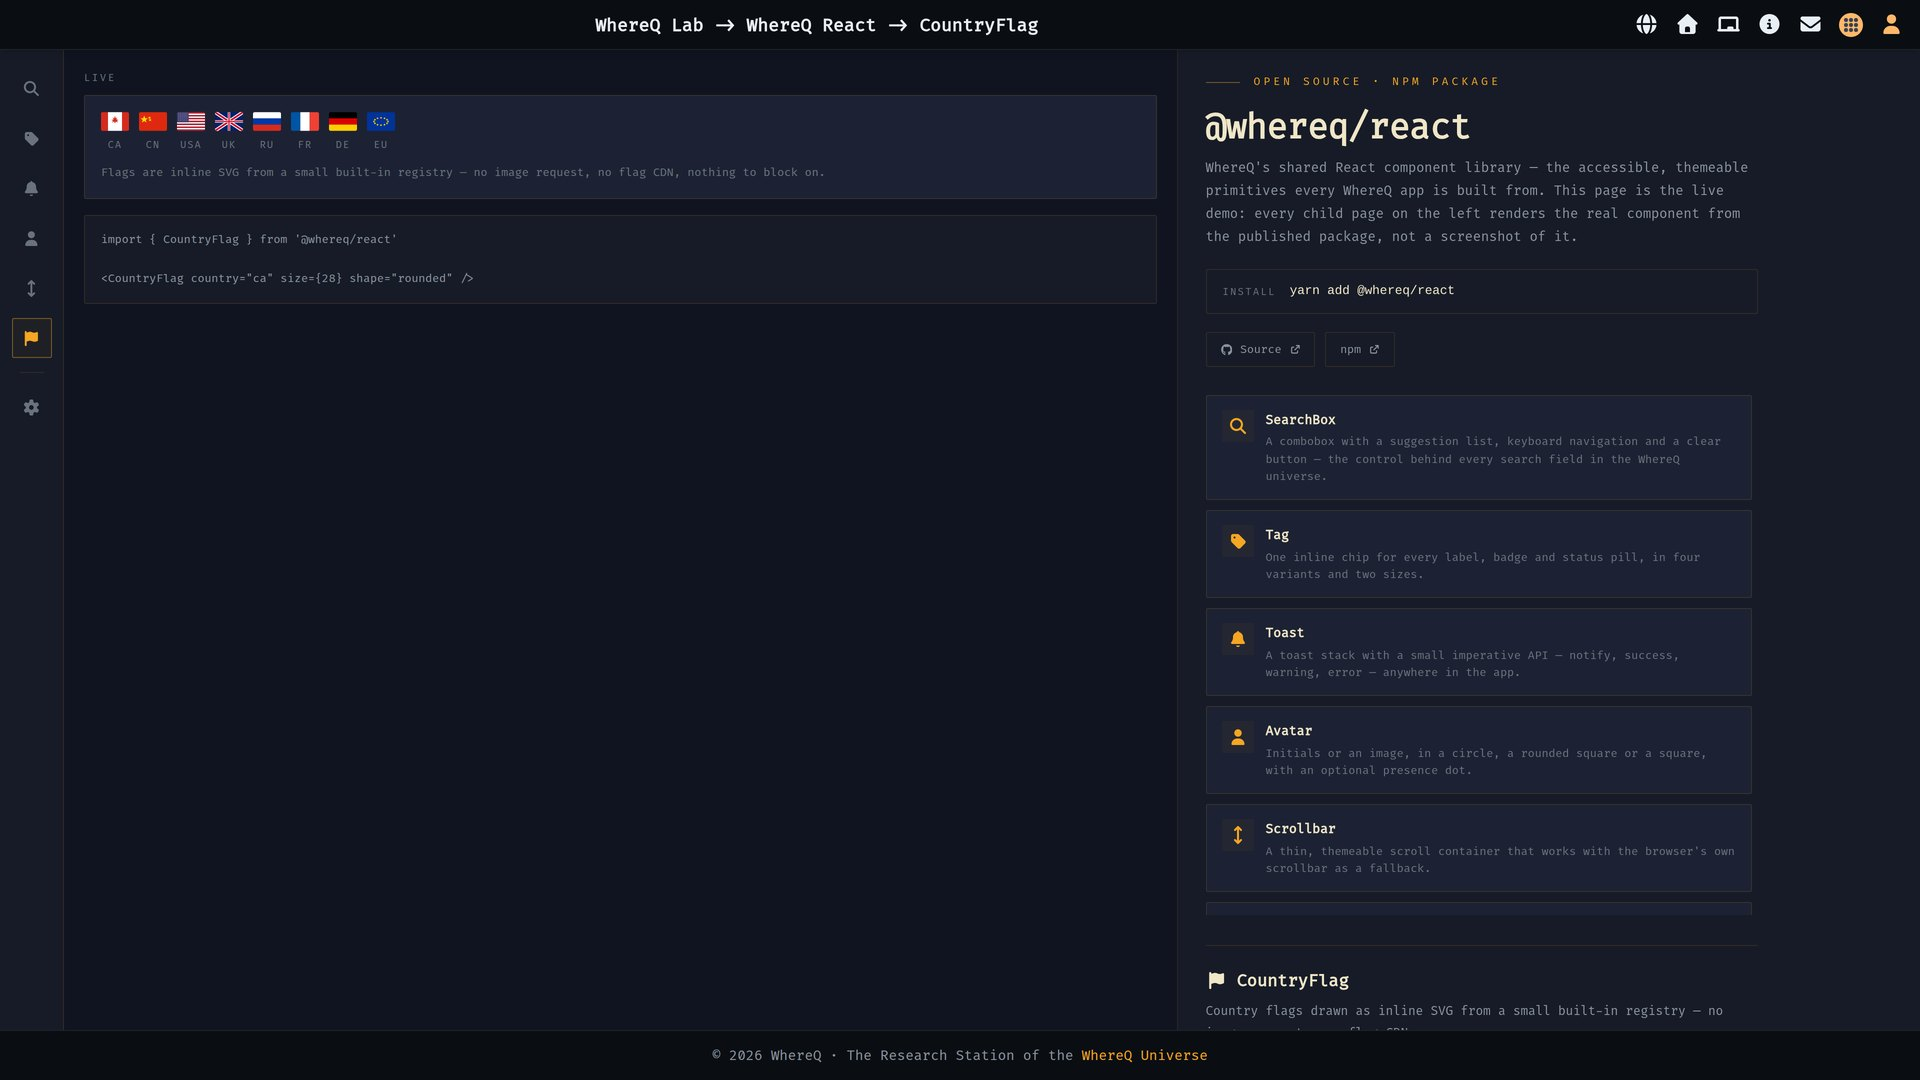
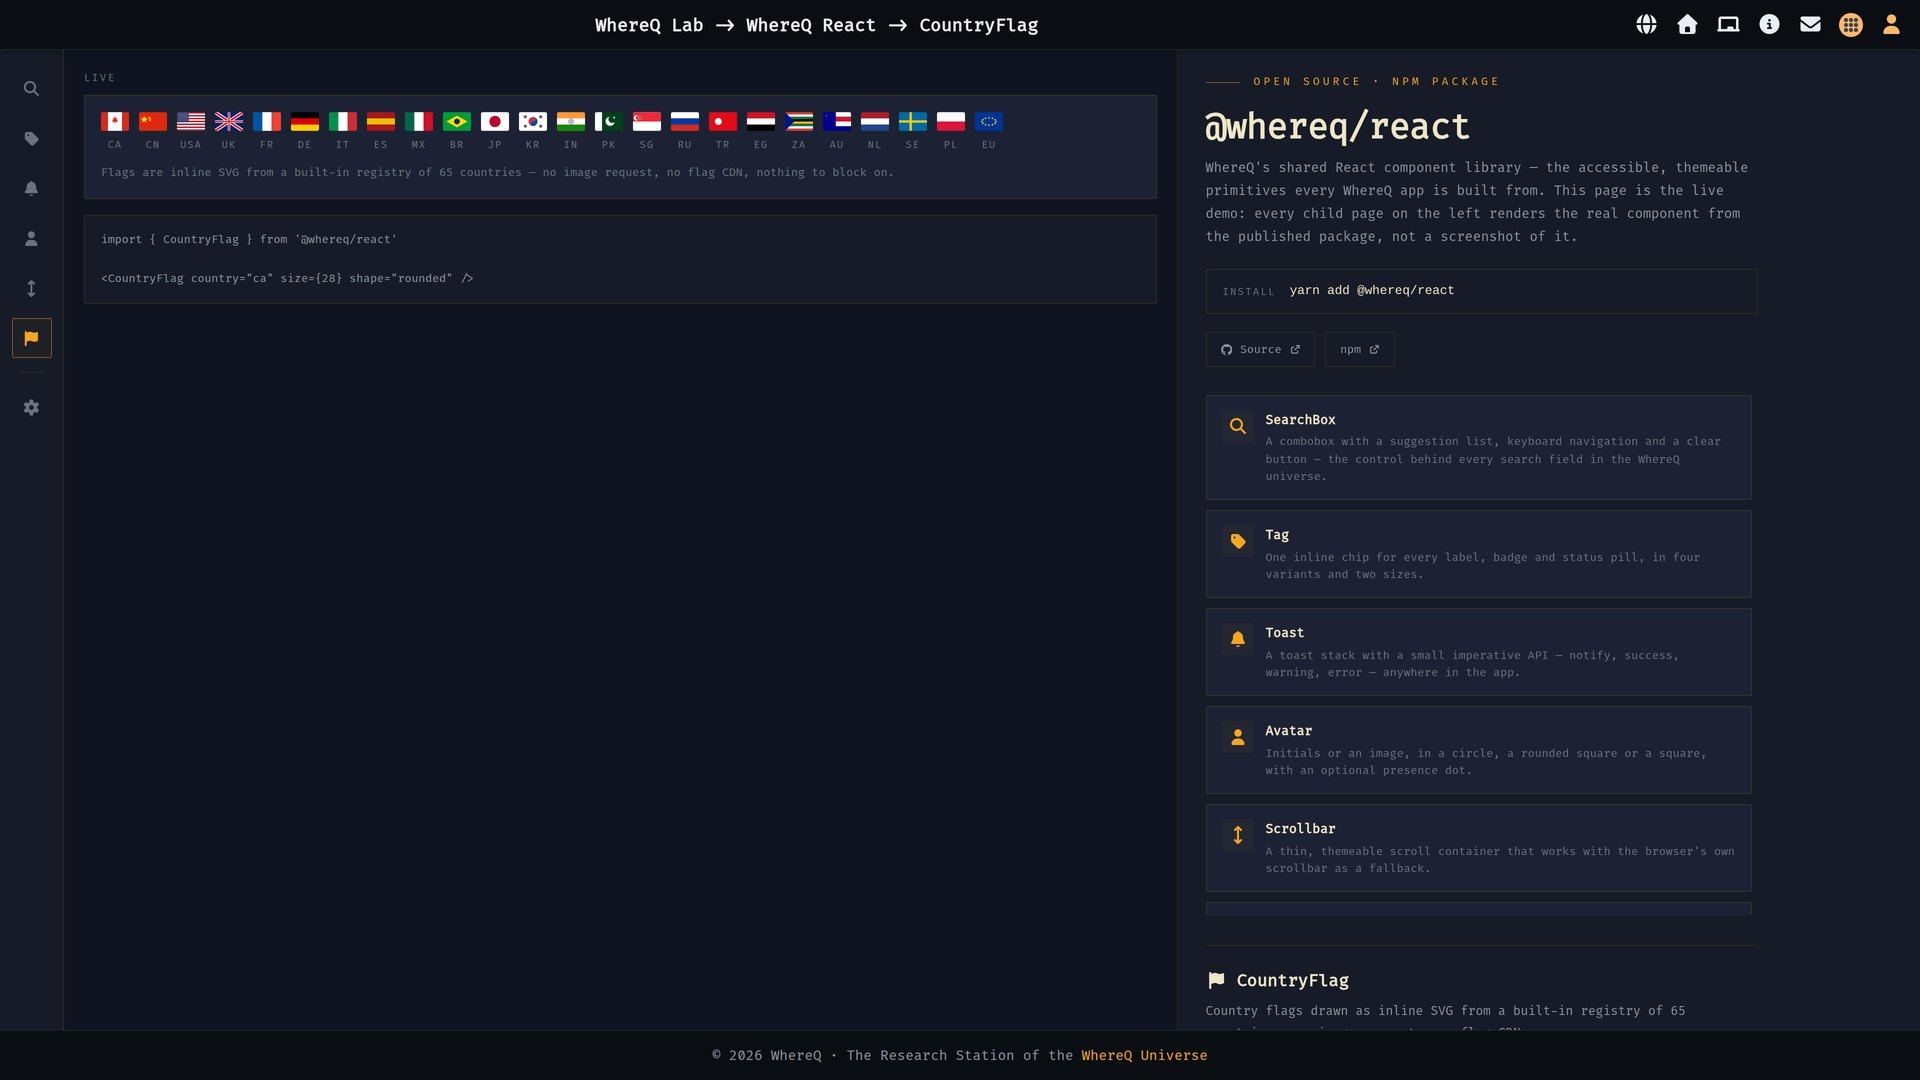
feat(react): the CountryFlag demo row counts its twenty-four countries
The @whereq/react registry behind the demo grew from forty-five countries
to sixty-five, and the demo's flag row grew from eight to twenty-four:
Japan is back, with South Korea, India, Pakistan, Singapore, Mexico,
Spain and Italy alongside it.

Both posts now say "a built-in registry of 65 countries" and list all
twenty-four codes, and the screenshot shows the new row.

The release ledger gains an entry for whereq.ca v1.13.0 and v1.13.1,
each carrying the release note's own headline.

Changed region(s): [[0.125, 0.0917, 0.5312, 0.1222], [0.8438, 0.9167, 0.875, 0.9472], [0.3125, 0.1528, 0.3438, 0.1833]]

diff --git a/src/data/news-release-ledger.ts b/src/data/news-release-ledger.ts
@@ -969,13 +969,25 @@ export const RELEASE_LEDGER: Record<string, LedgerEntry[]> = {
   ],
   'whereq-ca': [
       {
+        version: 'v1.13.1',
+        date: '2026-11-22',
+        title:
+          'The CountryFlag description now counts the countries instead of calling the registry small.',
+        url: doc('whereq.ca', 'docs/releases/v1.13.1-flag-blurb-2026-11-22.md'),
+      },
+      {
+        version: 'v1.13.0',
+        date: '2026-11-22',
+        title:
+          'The flag row in the WhereQ React demo grows from eight countries to twenty-four, and the library behind it now draws sixty-five.',
+        url: doc('whereq.ca', 'docs/releases/v1.13.0-more-flags-2026-11-22.md'),
+      },
+      {
         version: 'v1.12.0',
         date: '2026-11-22',
         title:
           'The flag row in the WhereQ React demo is now a row of country codes, with Russia in place of Japan.',
-        // The note was filled in after the release and lives on `dev` until
-        // the next release merges it into `main`.
-        url: doc('whereq.ca', 'docs/releases/v1.12.0-flag-row-2026-11-22.md', 'dev'),
+        url: doc('whereq.ca', 'docs/releases/v1.12.0-flag-row-2026-11-22.md'),
       },
       {
         version: 'v1.11.0',
